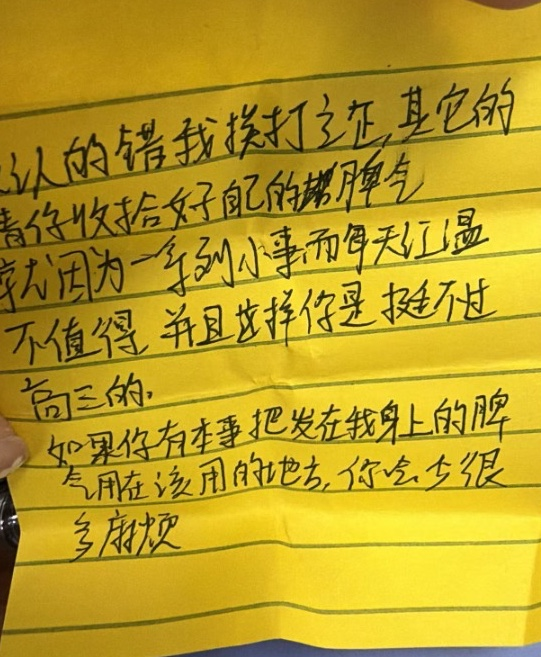
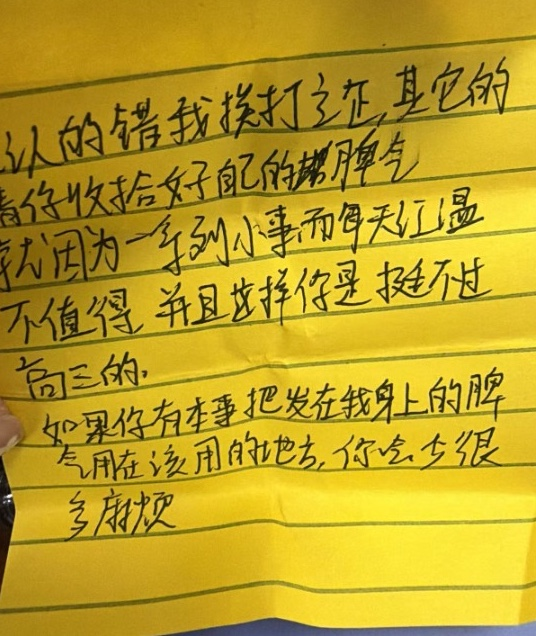
Tuck all folded real notes neatly inside the pouch zipper borders and refine note crops

diff --git a/index.html b/index.html
@@ -434,25 +434,28 @@
       filter: drop-shadow(0 6px 11px rgba(0, 0, 0, 0.74)) brightness(0.92);
     }
 
-    /* 各真实物品在笔袋内衬夹缝与笔旁的精确安放（pouch-inside.jpg: 768x1376） */
+    /* 各真实物品完全塞进白拉链开口之内的蓝布内衬与笔缝间（pouch-inside.jpg: 768x1376） */
     /* 1. 阿尔卑斯折纸糖果 */
-    .pi-candy  { left: 21%; top: 38%; width: 15%; transform: translate(-50%, -50%) rotate(-18deg); }
-    /* 2. 黄色横线长纸条（折叠态塞在右上夹缝） */
-    .pi-yellow { left: 79%; top: 38%; width: 14%; aspect-ratio: 1 / 1.3; transform: translate(-50%, -50%) rotate(15deg); }
-    /* 3. Mnemosyne 方格好感度纸条（折叠态塞在右中夹缝） */
-    .pi-grid   { left: 82%; top: 53%; width: 13%; aspect-ratio: 1.2 / 1; transform: translate(-50%, -50%) rotate(-10deg); }
-    /* 4. 橙红神偷奶爸折纸条（实拍对折图） */
-    .pi-orange { left: 22%; top: 54%; width: 18%; transform: translate(-50%, -50%) rotate(-74deg); }
-    /* 5. 白色手撕 shit 纸条 */
-    .pi-shit   { left: 73%; top: 68%; width: 20%; transform: translate(-50%, -50%) rotate(-24deg); }
-    /* 6. 十六宫格涂鸦大纸（折小成 1/16 方块露角压在左上） */
-    .pi-doodle { left: 27%; top: 27%; width: 12%; aspect-ratio: 1 / 1; transform: translate(-50%, -50%) rotate(12deg); }
-    /* 7. 手绘牛排折纸方块 */
-    .pi-steak  { left: 32%; top: 73%; width: 14%; aspect-ratio: 1.15 / 1; transform: translate(-50%, -50%) rotate(-12deg); }
-    /* 8. 樱桃蛋糕不规则白纸片 */
-    .pi-cake   { left: 68%; top: 26%; width: 14%; transform: translate(-50%, -50%) rotate(18deg); }
-    /* 9. 红珠链篮球小公仔挂件（紧挨右下白塑料环） */
-    .pi-duck   { left: 68%; top: 84%; width: 12.5%; transform: translate(-50%, -50%) rotate(16deg); z-index: 9; }
+    .pi-candy  { left: 21%; top: 41%; width: 14%; transform: translate(-50%, -50%) rotate(-16deg); }
+    /* 2. 黄色横线长纸条（折起塞在右上蓝袋壁） */
+    .pi-yellow { left: 77%; top: 42%; width: 12.5%; aspect-ratio: 1 / 1.15; transform: translate(-50%, -50%) rotate(11deg); }
+    .pi-yellow img { transform: scale(2.1); object-position: 38% 72%; }
+    /* 3. Mnemosyne 方格好感度纸条（折起塞在右中内衬） */
+    .pi-grid   { left: 78%; top: 55%; width: 12%; aspect-ratio: 1.15 / 1; transform: translate(-50%, -50%) rotate(-12deg); }
+    .pi-grid img { transform: scale(1.65); object-position: 45% 42%; }
+    /* 4. 橙红神偷奶爸折纸条（实拍对折图，塞在左中袋壁） */
+    .pi-orange { left: 22%; top: 55%; width: 17%; transform: translate(-50%, -50%) rotate(-76deg); }
+    /* 5. 白色手撕 shit 纸条（斜插右下笔隙） */
+    .pi-shit   { left: 67%; top: 68%; width: 19%; transform: translate(-50%, -50%) rotate(-24deg); }
+    /* 6. 十六宫格涂鸦大纸（折成 1/16 小格压在左上袋口内侧） */
+    .pi-doodle { left: 30%; top: 29%; width: 10.5%; aspect-ratio: 1 / 1; transform: translate(-50%, -50%) rotate(10deg); }
+    .pi-doodle img { transform: scale(3.2); object-position: 78% 36%; }
+    /* 7. 手绘牛排折纸方块（斜塞在左下袋角里面） */
+    .pi-steak  { left: 37%; top: 70%; width: 11.5%; aspect-ratio: 1.15 / 1; transform: translate(-50%, -50%) rotate(-14deg); }
+    /* 8. 樱桃蛋糕不规则白纸片（塞在右上白拉链内侧） */
+    .pi-cake   { left: 66%; top: 29%; width: 12.5%; transform: translate(-50%, -50%) rotate(16deg); }
+    /* 9. 红珠链篮球小公仔挂件（正好挂靠在右下白塑料拉环旁） */
+    .pi-duck   { left: 65%; top: 88%; width: 12.5%; transform: translate(-50%, -50%) rotate(14deg); z-index: 9; }
 
     /* 剥开纸糖果后直接展现真实折叠纸巾特写，只留六个句号 */
     .tissue-photo-overlay {
